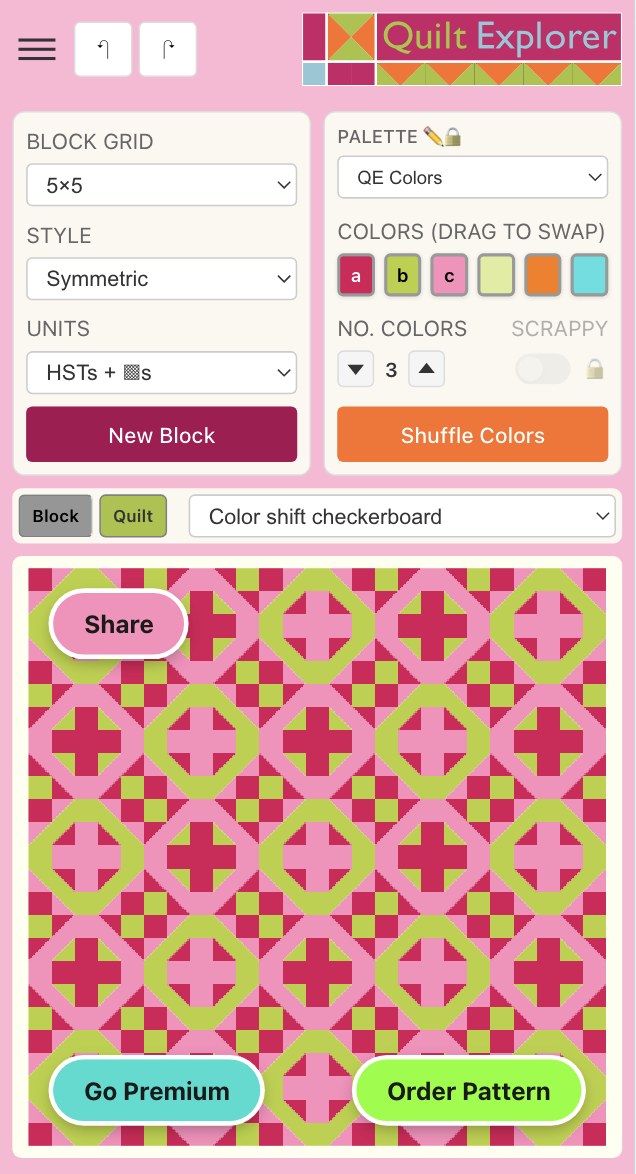
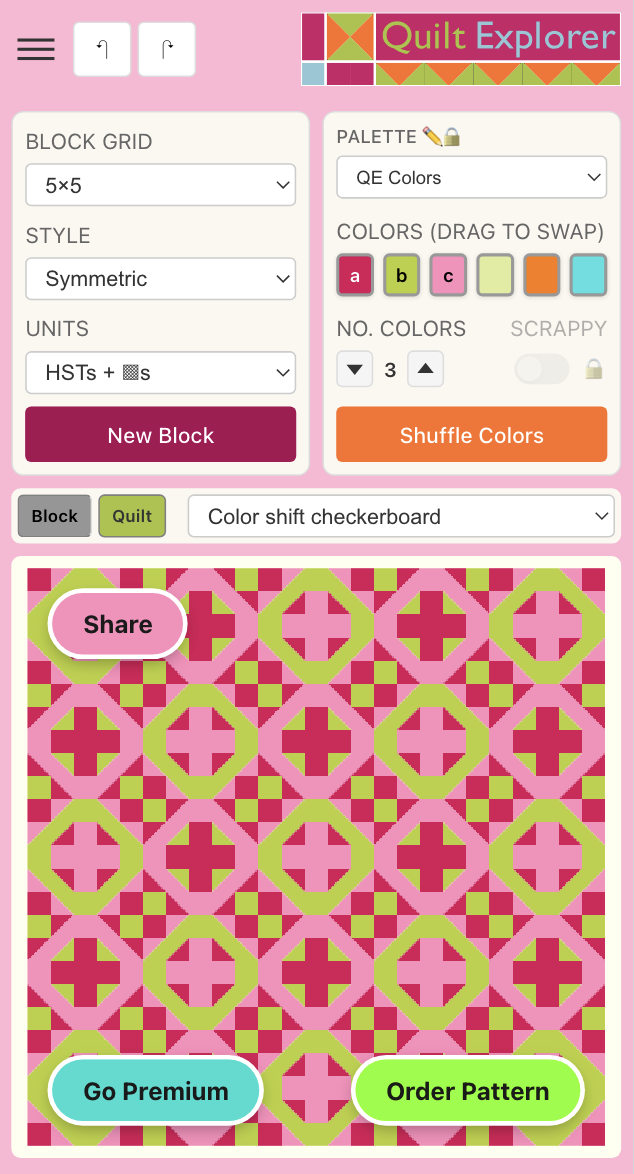
Fix phone frame: match app pink background, trim right edge artifact

diff --git a/src/pages/Index.tsx b/src/pages/Index.tsx
@@ -210,7 +210,7 @@ const Index = () => {
 
               {/* Phone screenshot */}
               <div className="flex justify-center">
-                <div className="border-[6px] border-charcoal rounded-[2.5rem] shadow-2xl overflow-hidden max-w-[340px] w-full">
+                <div className="border-[6px] border-charcoal rounded-[2.5rem] shadow-2xl overflow-hidden max-w-[340px] w-full p-1.5" style={{backgroundColor: '#f4bad4'}}>
                   <img
                     src={appPhone}
                     alt="Quilt Explorer app design screen"